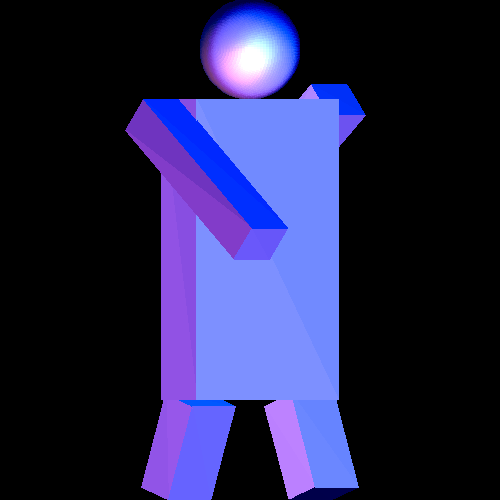
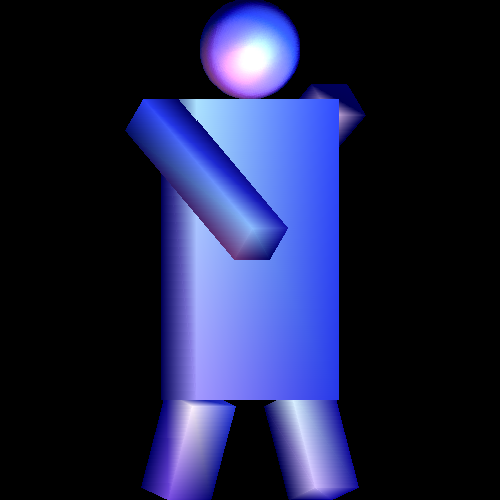
parsing works

Changed region(s): [[0.24, 0.15, 0.75, 1.0], [0.48, 0.0, 0.6, 0.12]]

diff --git a/my_main.c b/my_main.c
@@ -248,11 +248,13 @@
   			for (i=0;i<lastop;i++) {
   				switch (op[i].opcode) {
 				case SHADING:
-				  if(strcmp(op[i].op.shading.p->name,"FLAT"))
+				  if(!strcmp(op[i].op.shading.p->name,"FLAT"))
 				    shading = FLAT;
-				  else if(strcmp(op[i].op.shading.p->name,"GOURAUD"))
+				  else if(!strcmp(op[i].op.shading.p->name,"GOURAUD")){
 				    shading = GOURAUD;
-				  else if(strcmp(op[i].op.shading.p->name,"PHONG"))
+				    //printf("growled\n");
+				  }
+				  else if(!strcmp(op[i].op.shading.p->name,"PHONG"))
 				    shading = PHONG;
 				  else
 				    shading = 0;
